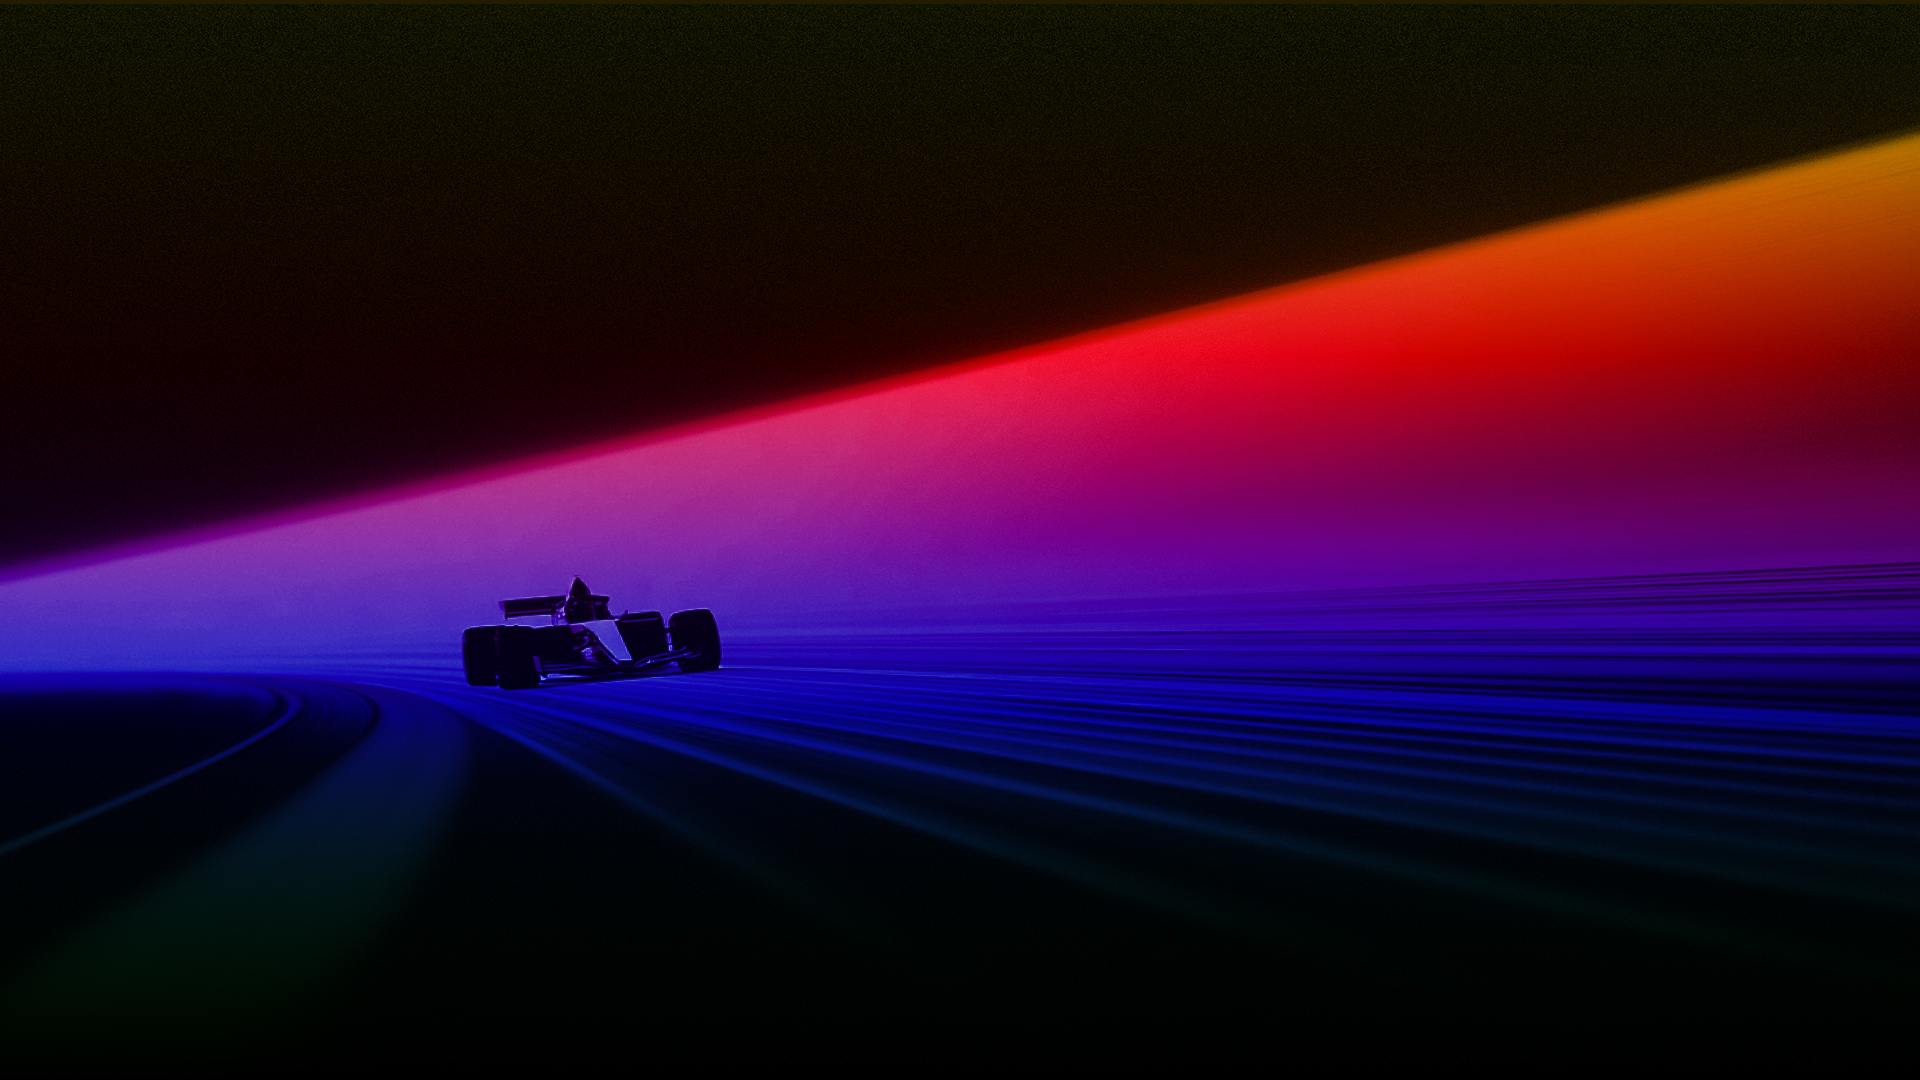
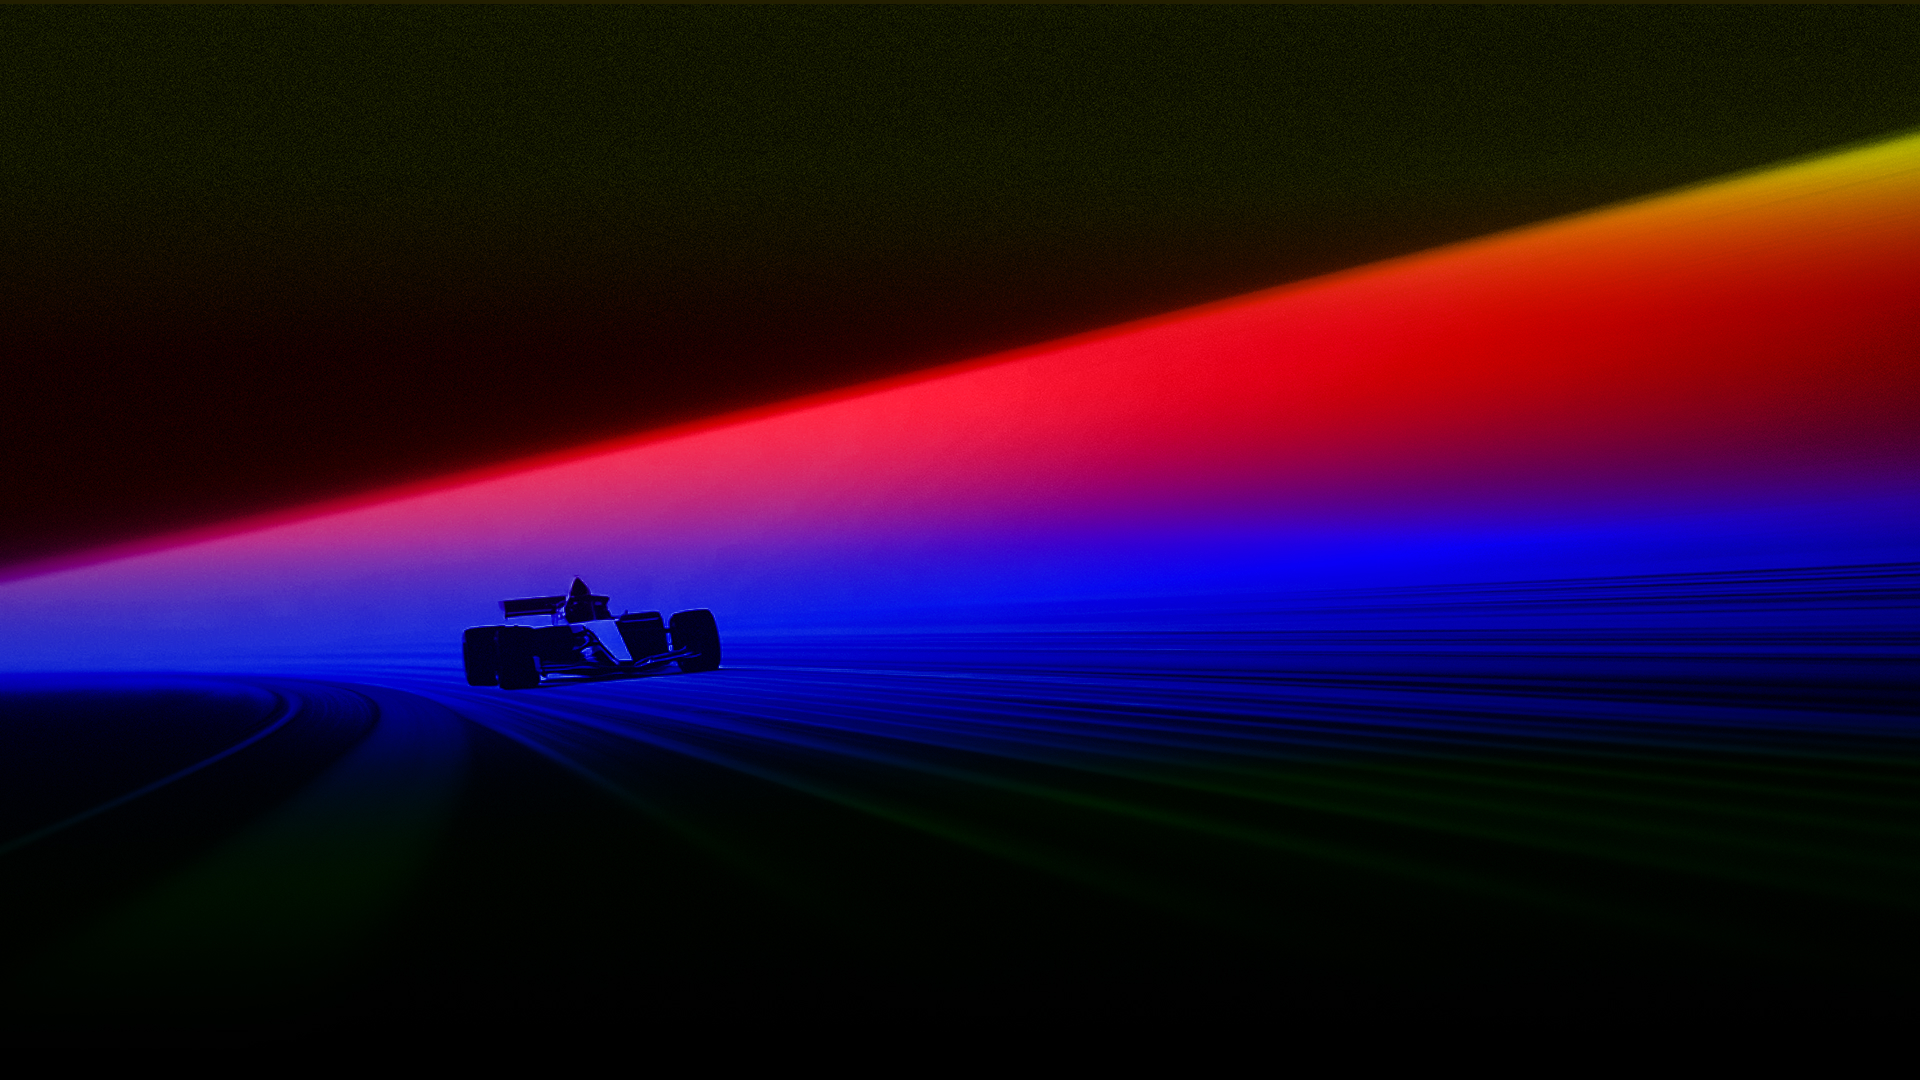
Update landing page: replace background image, add parallax effect, and adjust styles
- Replace Landing.jpg with BRND Hero 1.jpg in HeroSection
- Add parallax scroll effect to HeroSection background
- Apply consistent styling to BRND ATTRIBUTES title
- Remove (GSAP) from Live Podiums title
- Increase bottom gradient height in PodiumCarouselGSAP from 200px to 300px

diff --git a/src/components/brands/ApplyForm.tsx b/src/components/brands/ApplyForm.tsx
@@ -261,13 +261,12 @@ export function ApplyForm({ categories }: { categories: Category[] }) {
                         <label htmlFor="url" className="block text-[10px] font-bold text-zinc-500 uppercase tracking-[0.2em] mb-2">
                             Website URL
                         </label>
-                        <input
+                        <Input
                             type="url"
                             name="url"
                             id="url"
                             value={formData.url}
                             onChange={handleInputChange}
-                            className="block w-full rounded-lg bg-black border border-zinc-800 py-3 px-4 text-sm text-white placeholder:text-zinc-600 focus:border-white focus:ring-1 focus:ring-white transition-colors"
                             placeholder="https://www.farcaster.xyz"
                         />
                     </div>
@@ -324,14 +323,14 @@ export function ApplyForm({ categories }: { categories: Category[] }) {
                         <label htmlFor="walletAddress" className="block text-[10px] font-bold text-zinc-500 uppercase tracking-[0.2em] mb-2">
                             Wallet Address
                         </label>
-                        <Input
+                        <input
                             type="text"
                             name="walletAddress"
                             id="walletAddress"
                             value={formData.walletAddress}
                             onChange={handleInputChange}
                             pattern="^0x[a-fA-F0-9]{40}$"
-                            className="font-mono"
+                            className="block w-full rounded-lg bg-black border border-zinc-800 py-3 px-4 text-sm text-white placeholder:text-zinc-600 focus:border-white focus:ring-1 focus:ring-white transition-colors font-mono"
                             placeholder="0x..."
                         />
                         <p className="mt-2 text-xs text-zinc-600">Must be a valid Ethereum address (0x...)</p>

diff --git a/src/components/landing/HeroSection.tsx b/src/components/landing/HeroSection.tsx
@@ -2,22 +2,41 @@
 
 import Image from "next/image"
 import { useTranslations } from "next-intl"
+import { useState, useEffect } from "react"
 
 export function HeroSection() {
     const t = useTranslations('landing.hero')
+    const [scrollY, setScrollY] = useState(0)
+
+    useEffect(() => {
+        const handleScroll = () => {
+            setScrollY(window.scrollY)
+        }
+
+        window.addEventListener('scroll', handleScroll)
+        return () => window.removeEventListener('scroll', handleScroll)
+    }, [])
 
     return (
         <section className="relative min-h-[50vh] w-full overflow-hidden pt-24">
-            {/* Background Image */}
+            {/* Background Image with Parallax */}
             <div className="absolute inset-0 z-0">
-                <Image
-                    src="/Landing.jpg"
-                    alt="BRND Background"
-                    fill
-                    className="object-cover object-center"
-                    priority
-                    quality={90}
-                />
+                <div 
+                    className="absolute inset-0"
+                    style={{
+                        transform: `translateY(${scrollY * 0.5}px)`,
+                        willChange: 'transform'
+                    }}
+                >
+                    <Image
+                        src="/BRND Hero 1.jpg"
+                        alt="BRND Background"
+                        fill
+                        className="object-cover object-center"
+                        priority
+                        quality={90}
+                    />
+                </div>
                 {/* Overlay for better text readability */}
                 <div className="absolute inset-0 bg-black/20" />
             </div>

diff --git a/src/components/landing/PodiumCarouselGSAP.tsx b/src/components/landing/PodiumCarouselGSAP.tsx
@@ -150,7 +150,7 @@ export function PodiumCarouselGSAP({ initialPodiums = [] }: PodiumCarouselProps)
         <section className="relative z-20 py-16 overflow-hidden">
             <div className="w-full">
                 <h2 className="text-center text-2xl font-bold text-white mb-8 font-display uppercase px-6">
-                    Live Podiums (GSAP)
+                    Live Podiums
                 </h2>
                 
                 {/* Slider container - full width */}
@@ -171,7 +171,7 @@ export function PodiumCarouselGSAP({ initialPodiums = [] }: PodiumCarouselProps)
                     />
                     {/* Gradiente inferior para ocultar cards que bajan */}
                     <div 
-                        className="absolute bottom-0 left-0 right-0 h-[200px] z-50 pointer-events-none"
+                        className="absolute bottom-0 left-0 right-0 h-[300px] z-50 pointer-events-none"
                         style={{
                             background: 'linear-gradient(to top, rgb(0,0,0) 0%, rgba(0,0,0,0) 100%)'
                         }}

diff --git a/src/components/landing/BrndAttributes.tsx b/src/components/landing/BrndAttributes.tsx
@@ -70,7 +70,7 @@ export const BrndAttributes = () => {
         <section className="w-full bg-black">
             {/* Title */}
             <div className="px-4 py-8 md:py-12 lg:py-16">
-                <h2 className="text-center text-2xl sm:text-3xl md:text-4xl lg:text-5xl xl:text-6xl font-black italic tracking-tight text-white">
+                <h2 className="text-center font-display text-xl sm:text-2xl md:text-3xl lg:text-4xl xl:text-5xl font-bold uppercase leading-tight text-white">
                     BRND ATTRIBUTES
                 </h2>
             </div>
